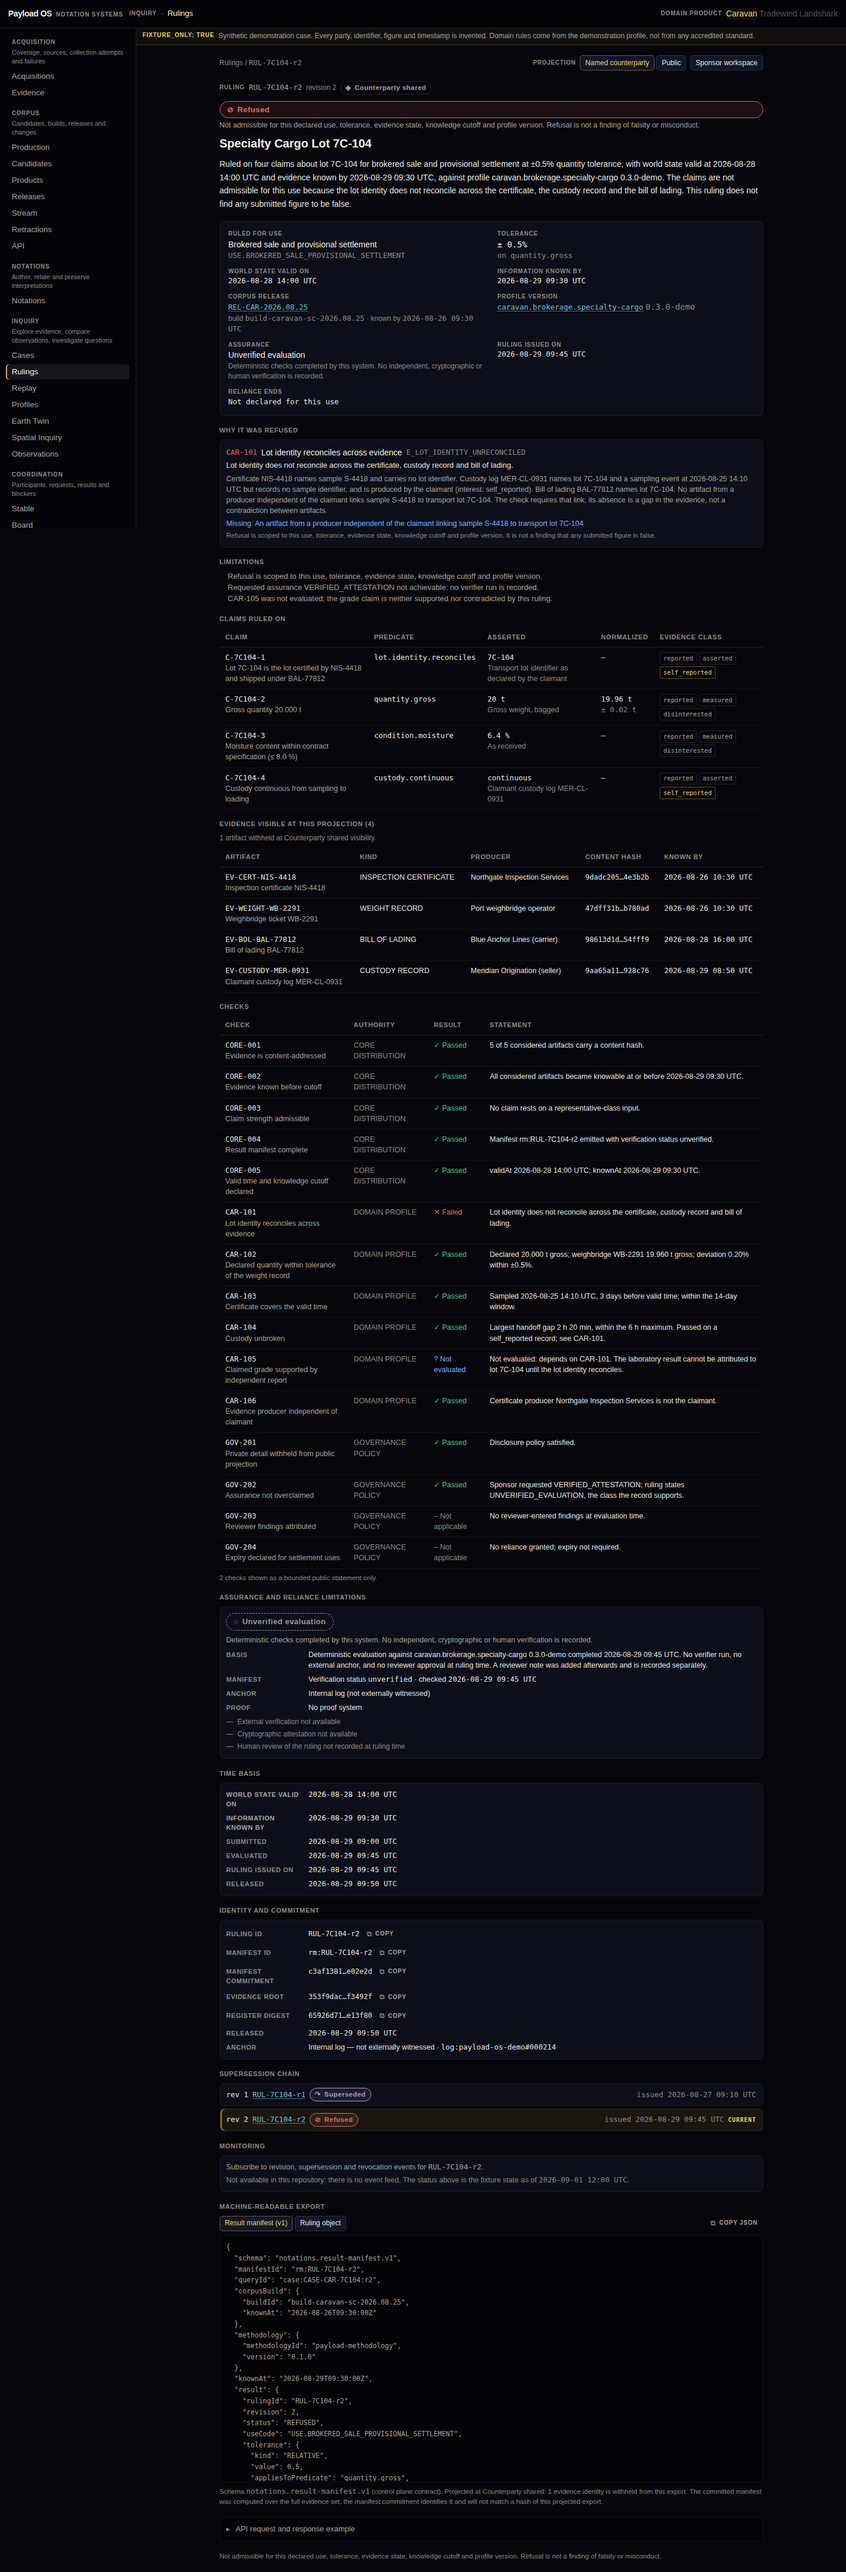
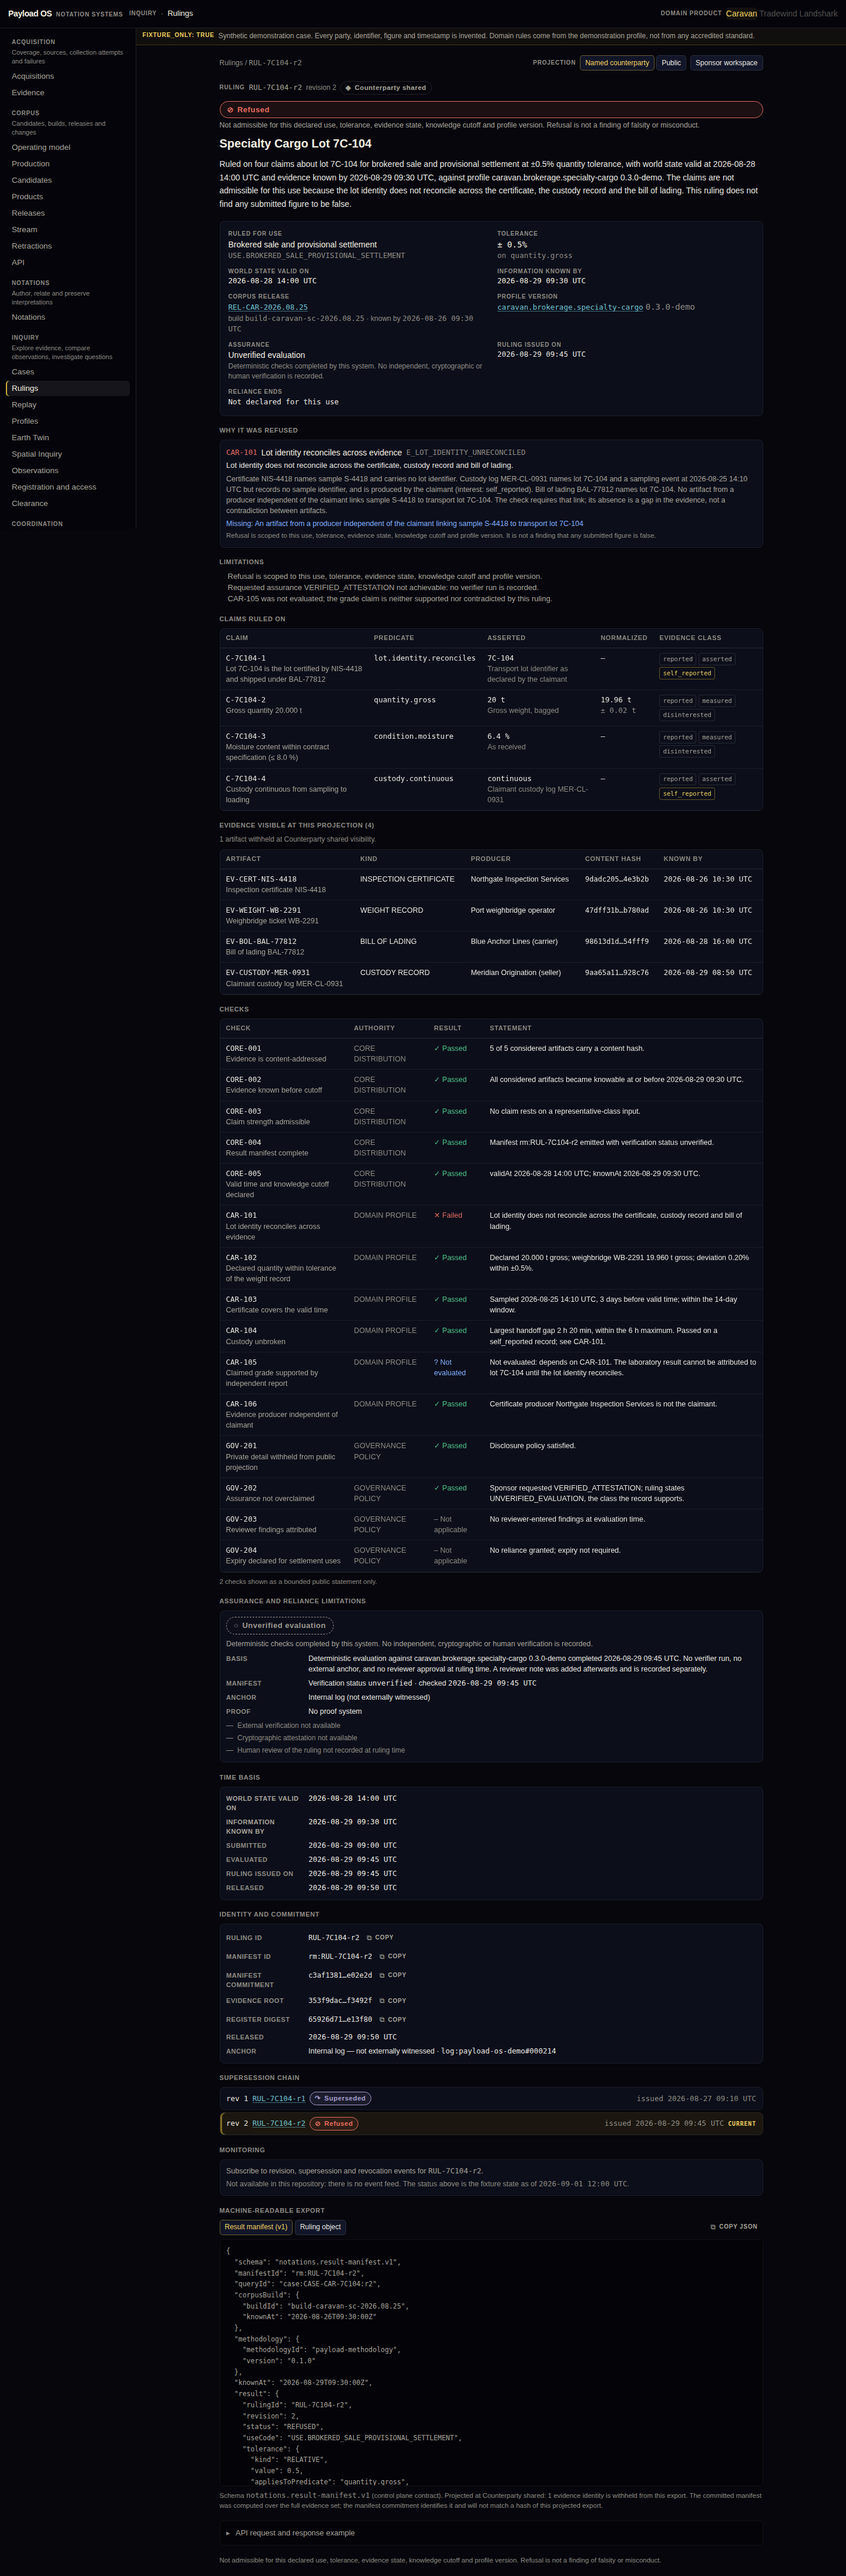
The path rail shows what blocks each stage and what to do about it
deriveStages already computes a blocker and a list of recovery actions for every
stage, from the rail's own receipts and from the contracts that do not exist. The
rail rendered the label, the state, the detail, the object and the run, and dropped
both. An operator reading the path saw BLOCKED with no statement of what blocks it,
and had to find the blocker in the console below.

Each stage now carries its blocker beside it, in the same three parts the domain
derives: what is missing, who owns it, and what would change it. Where the rail
reports a failed or quarantined run, the stage carries the recovery actions with
the reason each is permitted. The fixture path has no failed run, so recovery
appears only where a run actually failed.

The production-path screenshot grows from 1741 to 5282 pixels, which is the
measure of what the page was not saying.

Two ruling-viewer screenshots also change from the previous commit's overflow fix.
The mobile one is the proof: it was captured 613 pixels wide on a 390 pixel device
and is now 390.

Verified: typecheck, lint, 3928 unit tests across 122 files, next build, 144 browser
tests at desktop and Pixel 7 including the corrected overflow sweep.

Claude-Session: https://claude.ai/code/session_01YavvFTG3jpkFTZgGR3Zgq9

diff --git a/src/components/production/ProductionPath.tsx b/src/components/production/ProductionPath.tsx
@@ -360,6 +360,18 @@ export function ProductionPath({ enabled, demo, definition, sourceTemplate, purp
                 {stage.object && <div className="text-[11px]"><Ref reference={stage.object} /></div>}
                 {stage.run && <div className="text-[11px]" style={faint}>run <span className="id">{stage.run.id}</span> · <span className="mono" style={{ color: RUN_COLOR[stage.run.state] }}>{stage.run.state}</span></div>}
                 {stage.href && <Link href={stage.href} className="text-[11.5px]" style={{ color: 'var(--info)' }}>{stage.state === 'DEMONSTRATION' ? 'See the demonstration' : stage.id === 'notation' ? 'Open notations' : 'Open releases'}</Link>}
+                {/* The stage derives its blocker and its recovery; the rail is where an operator reads them. */}
+                {stage.blocker && <div data-testid={`stage-${stage.id}-blocker`}><BlockerView blocker={stage.blocker} /></div>}
+                {stage.recovery.length > 0 && (
+                  <ul className="m-0 p-0 list-none flex flex-col gap-1" data-testid={`stage-${stage.id}-recovery`} aria-label={`What to do at ${stage.label}`}>
+                    {stage.recovery.map((action) => (
+                      <li key={action.kind} className="text-[11.5px] flex flex-wrap items-baseline gap-x-2" data-stage-recovery={action.kind}>
+                        <span style={{ color: 'var(--text-heading)' }}>{action.label}</span>
+                        <span style={faint}>{action.why}</span>
+                      </li>
+                    ))}
+                  </ul>
+                )}
               </li>
             ))}
           </ol>

diff --git a/tests/e2e/smoke.spec.ts b/tests/e2e/smoke.spec.ts
@@ -212,6 +212,12 @@ test('production path without the local rail: the committed demonstration stands
   await expect(page.getByTestId('notation-card')).toContainText('ATTACH_EVIDENCE_REFERENCE');
   await expect(page.getByTestId('release-card')).toContainText('No admission authority exists');
   // Nothing on this page reaches the rail: the disabled descriptor is the only answer it could get, and it is not asked.
+  // Every stage carries what blocks it; the rail is where an operator reads it,
+  // beside the stage, rather than only in the console below. Recovery actions
+  // appear on a failed or quarantined run, which the fixture path never has.
+  await expect(page.getByTestId('stage-notation-blocker')).toContainText('ATTACH_EVIDENCE_REFERENCE');
+  await expect(page.getByTestId('stage-release-blocker')).toContainText('No admission authority exists');
+  await expect(page.getByTestId('stage-release-blocker')).toContainText('Admission contract');
   await page.getByRole('link', { name: 'See the demonstration' }).first().click();
   await expect(page).toHaveURL(/\/candidates/);
   const accessibility = await new AxeBuilder({ page }).withTags(['wcag2a', 'wcag2aa', 'wcag22aa']).analyze();
